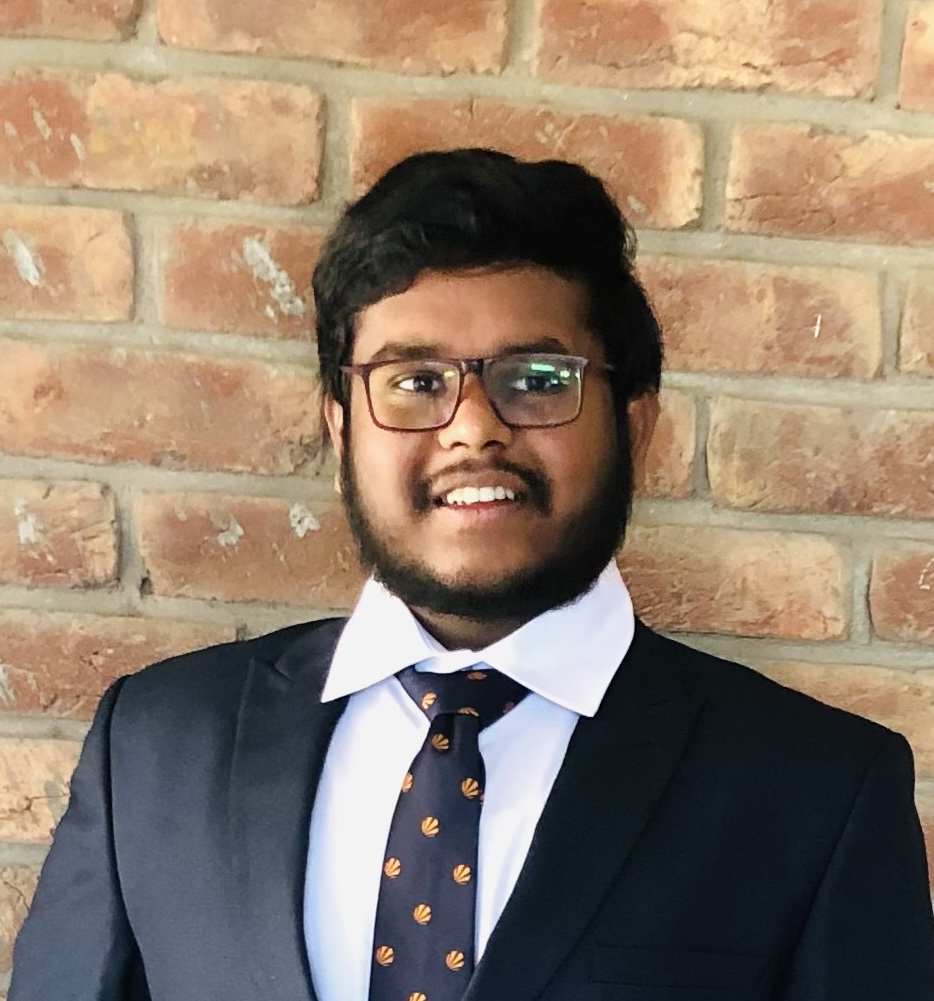
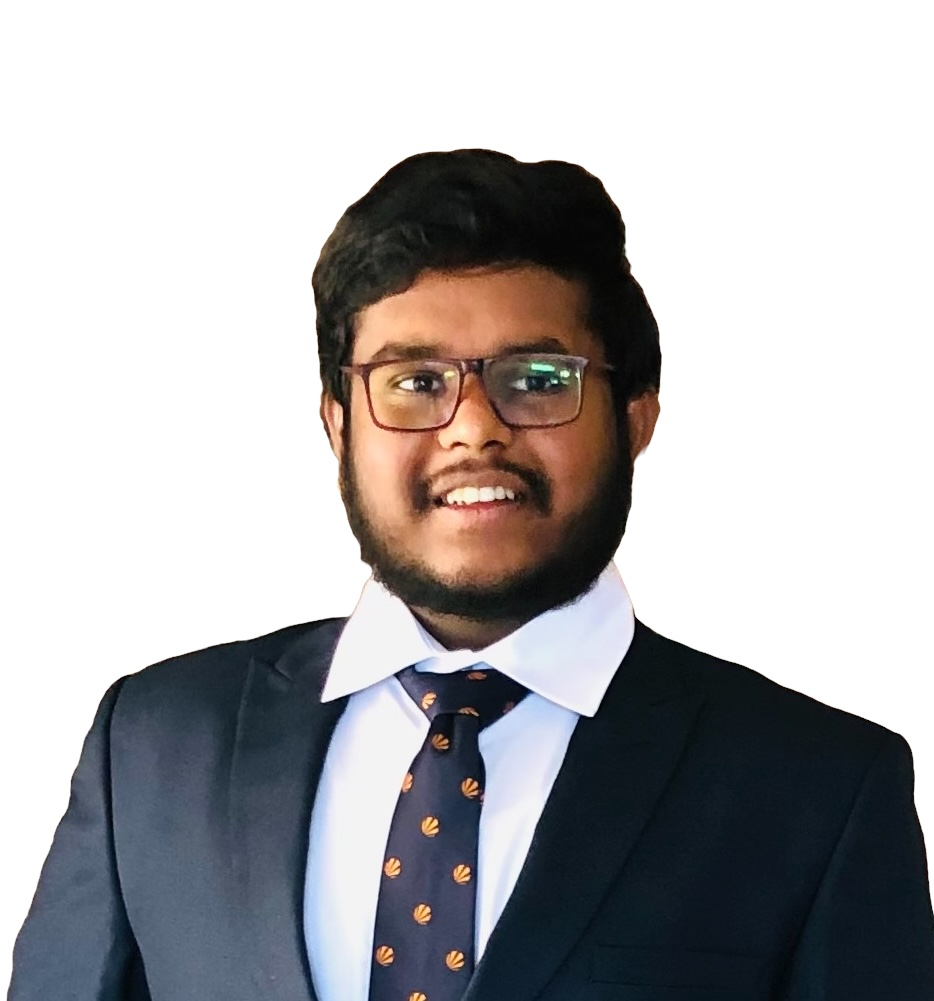
Made change to aditya photo and role

diff --git a/pages/Founders.tsx b/pages/Founders.tsx
@@ -80,7 +80,7 @@ const Founders: React.FC = () => {
                   <img
                     src={vinayPhoto}
                     alt="Vinay Kolla"
-                    className="object-cover w-full h-full grayscale hover:grayscale-0 transition-all duration-300"
+                    className="object-cover w-full h-full transition-all duration-300"
                   />
                 </div>
               </motion.div>
@@ -112,11 +112,11 @@ const Founders: React.FC = () => {
                     Adityaram Majeti
                   </h2>
                   <span className="text-xs font-mono font-bold uppercase tracking-widest text-blue-600">
-                    Operations Specialist
+                    AI Product Engineer
                   </span>
                 </div>
                 <p className="font-mono text-sm leading-relaxed text-gray-600 border-l border-black pl-4">
-                  Adityaram is an operations specialist who has successfully launched and scaled AI products across multiple domains and geographies. He focuses on operational delivery, custom customer integrations, and business engines that translate theoretical AI capabilities into commercial value.
+                  Adityaram is an AI product engineer who has successfully launched and scaled products across multiple domains and geographies. He focuses on operational delivery, custom customer integrations, and business engines that translate theoretical AI capabilities into commercial value.
                 </p>
               </motion.div>
 
@@ -126,7 +126,7 @@ const Founders: React.FC = () => {
                   <img
                     src={adityaPhoto}
                     alt="Adityaram Majeti"
-                    className="object-cover w-full h-full grayscale hover:grayscale-0 transition-all duration-300"
+                    className="object-cover w-full h-full transition-all duration-300"
                   />
                 </div>
               </motion.div>
